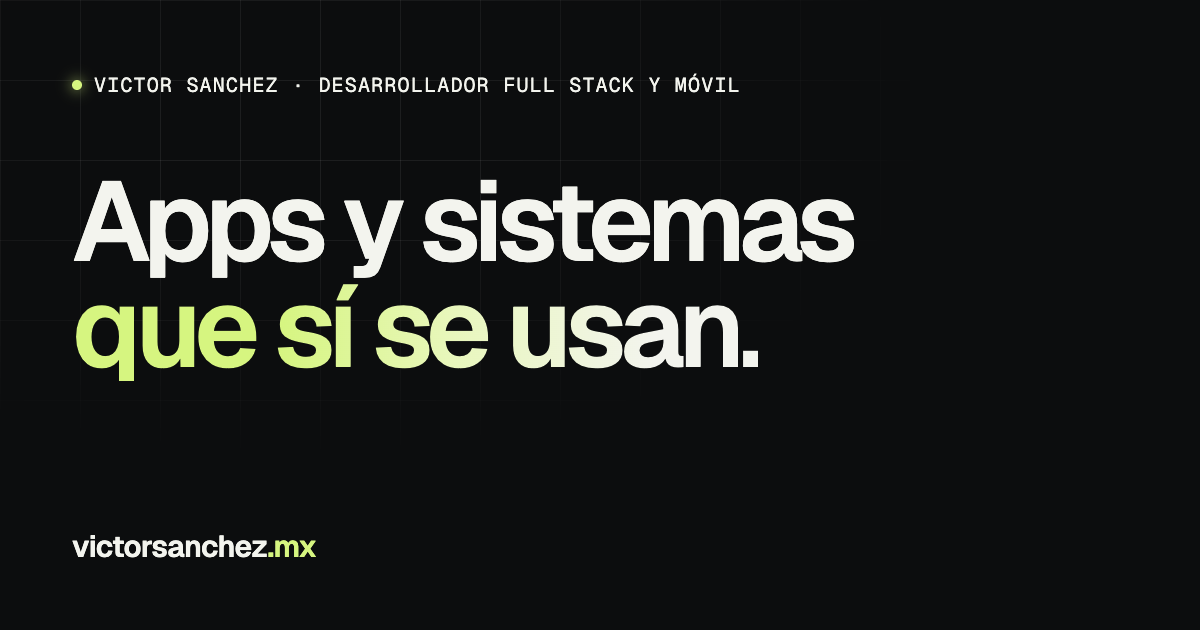
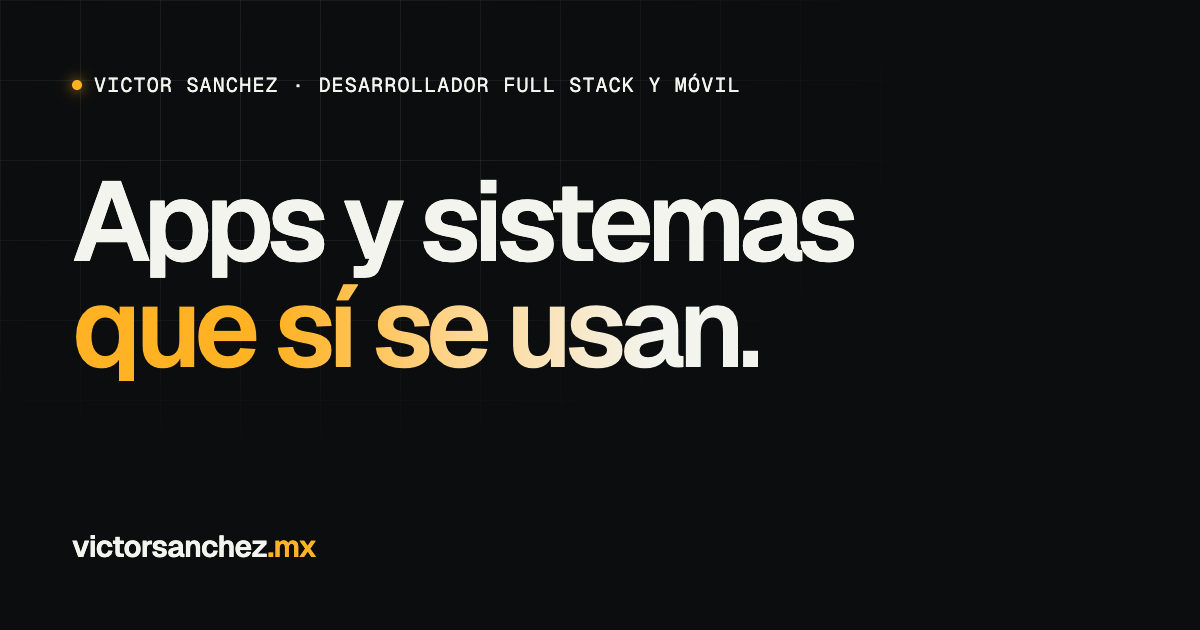
style: switch the accent from lime to amber

Changed region(s): [[0.0617, 0.4524, 0.4625, 0.6032], [0.2158, 0.8444, 0.2775, 0.9048], [0.0617, 0.1206, 0.0925, 0.1508]]

diff --git a/src/styles/global.css b/src/styles/global.css
@@ -8,8 +8,8 @@
 	--text: #f3f4ee;
 	--muted: #b3b9b4;
 	--faint: #858b86;
-	--accent: #d6f580;
-	--accent-ink: #17200a;
+	--accent: #ffb224;
+	--accent-ink: #1d1403;
 	--sans: var(--font-geist);
 	--mono: var(--font-geist-mono);
 	--gutter: clamp(20px, 5vw, 80px);
@@ -138,7 +138,7 @@ a:hover {
 
 .grad {
 	width: fit-content;
-	background: linear-gradient(90deg, var(--accent) 0%, var(--accent) 30%, #e8f7bb 55%, var(--text) 85%);
+	background: linear-gradient(90deg, var(--accent) 0%, var(--accent) 30%, #ffd48a 55%, var(--text) 85%);
 	-webkit-background-clip: text;
 	background-clip: text;
 	color: transparent;
@@ -162,11 +162,11 @@ a:hover {
 .btn-accent {
 	background: var(--accent);
 	color: var(--accent-ink);
-	box-shadow: 0 6px 24px rgb(214 245 128 / 18%);
+	box-shadow: 0 6px 24px rgb(255 178 36 / 18%);
 }
 
 .btn-accent:hover {
-	background: #e2fa9b;
+	background: #ffc04f;
 	color: var(--accent-ink);
 }
 
@@ -293,7 +293,7 @@ html:not(.js) .copy {
 	z-index: -1;
 	width: 720px;
 	height: 520px;
-	background: radial-gradient(closest-side, rgb(214 245 128 / 9%), transparent);
+	background: radial-gradient(closest-side, rgb(255 178 36 / 9%), transparent);
 }
 
 .hero-top {
@@ -375,9 +375,9 @@ html:not(.js) .copy {
 	place-items: center;
 	width: 34px;
 	height: 34px;
-	border: 1px solid rgb(214 245 128 / 25%);
+	border: 1px solid rgb(255 178 36 / 25%);
 	border-radius: 9px;
-	background: rgb(214 245 128 / 10%);
+	background: rgb(255 178 36 / 10%);
 	color: var(--accent);
 }
 
@@ -405,7 +405,7 @@ html:not(.js) .copy {
 }
 
 .chat-input:focus-within {
-	border-color: rgb(214 245 128 / 55%);
+	border-color: rgb(255 178 36 / 55%);
 }
 
 .chat-input input {
@@ -521,7 +521,7 @@ html:not(.js) .chat-chips {
 }
 
 .fill {
-	fill: rgb(214 245 128 / 12%);
+	fill: rgb(255 178 36 / 12%);
 }
 
 .dark {
@@ -959,9 +959,9 @@ html:not(.js) .chat-chips {
 
 .contact-form input:focus,
 .contact-form textarea:focus {
-	border-color: rgb(214 245 128 / 55%);
+	border-color: rgb(255 178 36 / 55%);
 	outline: none;
-	box-shadow: 0 0 0 3px rgb(214 245 128 / 12%);
+	box-shadow: 0 0 0 3px rgb(255 178 36 / 12%);
 }
 
 .contact-form .btn {

diff --git a/DESIGN.md b/DESIGN.md
@@ -4,7 +4,7 @@ Victor pidió el 2026-11-06 un sitio muy parecido a marius.dev. Se replican su e
 
 ## Estructura
 
-1. Menú flotante en forma de píldora, con "Hablemos" en lima.
+1. Menú flotante en forma de píldora, con "Hablemos" en ámbar.
 2. Portada con nombre y rol en mono, titular grande con degradado en la segunda línea, botón "Ver proyectos" y correo copiable. A la derecha, un recuadro para escribir por WhatsApp con sugerencias, donde marius.dev tiene su chat.
 3. Cuatro tarjetas de proceso con diagramas SVG propios: Diseño, Desarrollo, Publicación y Mantenimiento.
 4. Proyectos en tarjetas grandes: una ancha, dos medianas, una ancha y dos medianas. Debajo, "Más trabajo" en lista.
@@ -20,7 +20,7 @@ Victor pidió el 2026-11-06 un sitio muy parecido a marius.dev. Se replican su e
 | Superficie y tarjeta | `#141516` y `#161718` |
 | Bordes | blanco al 8 % y al 14 % |
 | Texto y secundario | `#f3f4ee` y `#b3b9b4` |
-| Acento | `#d6f580` |
+| Acento | `#ffb224` (ámbar; Victor lo prefirió al lima el 2026-11-06) |
 
 Tipografía: Geist para todo y Geist Mono para etiquetas en mayúsculas. Radios de 24 px en las tarjetas grandes, 16-18 px en los recuadros y píldoras en botones y chips.
 
